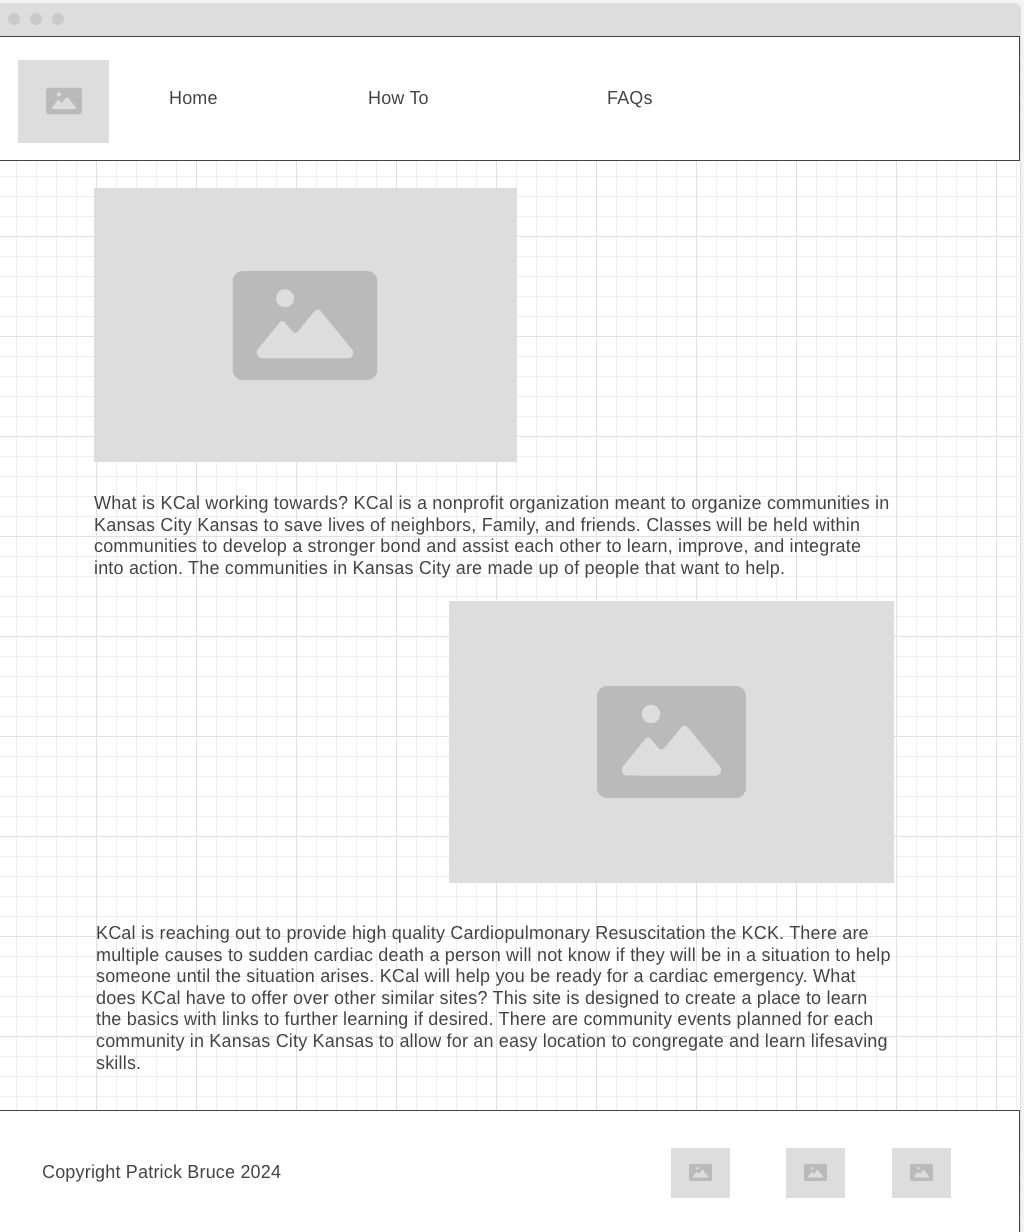
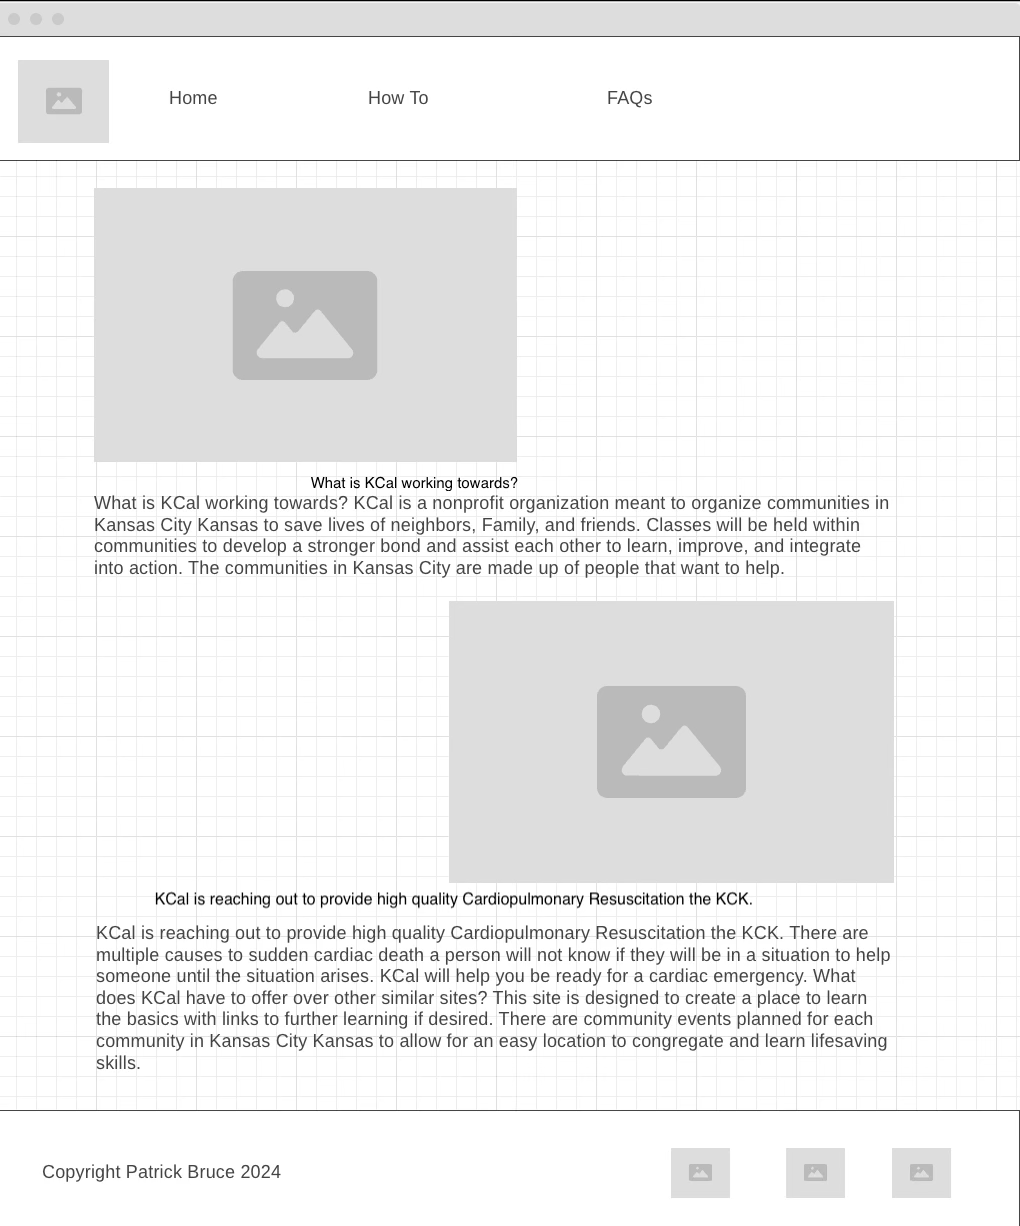
Wk14 final

diff --git a/cpr/index.html b/cpr/index.html
@@ -22,13 +22,14 @@
     
     <main>
         <img class="compressor" src="images/homecompressor.png" alt="homepage icon">
-         <section class="msg">   What is KCal working towards?
+         <h1>What is KCal working towards?</h1>
+        <section class="msg">   
     KCal is a nonprofit organization meant to organize communities in Kansas City Kansas to save lives of neighbors, Family, and friends. Classes will be held within communities to develop a stronger bond and assist each other to learn, improve, and integrate into action. The communities in Kansas City are made up of people that want to help. KCal is reaching out to provide high quality Cardiopulmonary Resuscitation the KCK. There are multiple causes to sudden cardiac death a person will not know if they will be in a situation to help someone until the situation arises. KCal will help you be ready for a cardiac emergency. 
         </section>
         <img class= "this" src="images/yougotthis.jpg" alt="homepage motivation">
-            
+           <h1> What does KCal have to offer over other similar sites? </h1>
         <section class="msg2">
-    What does KCal have to offer over other similar sites?
+    
     This site is designed to create a place to learn the basics with links to further learning if desired. There are community events planned for each community in Kansas City Kansas to allow for an easy location to congregate and learn lifesaving skills.
           
           

diff --git a/cpr/styles/styles.css b/cpr/styles/styles.css
@@ -69,7 +69,7 @@ li:nth-child(even) {
 
     .msg {
         font-family:'lato','roboto';
-        font-size: 2em;
+        font-size: 3em;
         padding: 20px;
         margin-top: 100px;
         margin-bottom: 100px;
@@ -81,13 +81,15 @@ li:nth-child(even) {
     }
     .msg2 {
         font-family:'Poppins','roboto';
-        font-size: 2em;
+        font-size: 3em;
         padding: 20px;
         margin-top: 100px;
         margin-bottom: 100px;
         grid-column: 6/10;
         grid-row: 6/7;
         box-shadow: 5px 5px 10px #45280b;
+        background-color: #4F5841;
+        color: #A88418
     }
     .cprtraining {
        height:800px;
@@ -146,7 +148,8 @@ footer {
 }
 @media screen and (max-width: 900px) {
     .box {
-        display: flex;
+        width: 100%;
+        
     }
     nav a {
         display:block;
@@ -155,8 +158,37 @@ footer {
     nav, footer {
         flex-direction: column;
     }
-    .content {
-       display: grid;
-        flex-basis: 1%;
-    }
+   .cprtraining {
+    width: 100%;
+    height: 50%;
+   }
+   .howto {
+    height: 50%
+   }
+   h1 {
+    font-size: x-large;
+    text-align: center;
+   }
+   .faqs {
+    height: 50%;
+   }
+   .cpr {
+    height: 200px;
+   }
+   .this {
+    height: 200px;
+   }
+   .compressor {
+    height: 150px;
+    width: 200px;
+   }
+   ul {
+    font-size: small;
+   }
+   p, .msg, .msg2 {
+    font-size: small;
+   }
+   msg {
+    font-size: small;
+   }
 }

diff --git a/cpr/howto.html b/cpr/howto.html
@@ -3,9 +3,10 @@
 <head>
     <meta charset="UTF-8">
     <meta http-equiv="X-UA-Compatible" content="IE=edge">
-    <meta name="viewport" content="width=device-width, initial-scale=1.0">
+    <meta name="viewport" content="width=device-width, initial-scale=1">
     <title>How To</title>
     <link rel="stylesheet" href="styles/styles.css">
+    
 </head>
 <div class="box">
     
